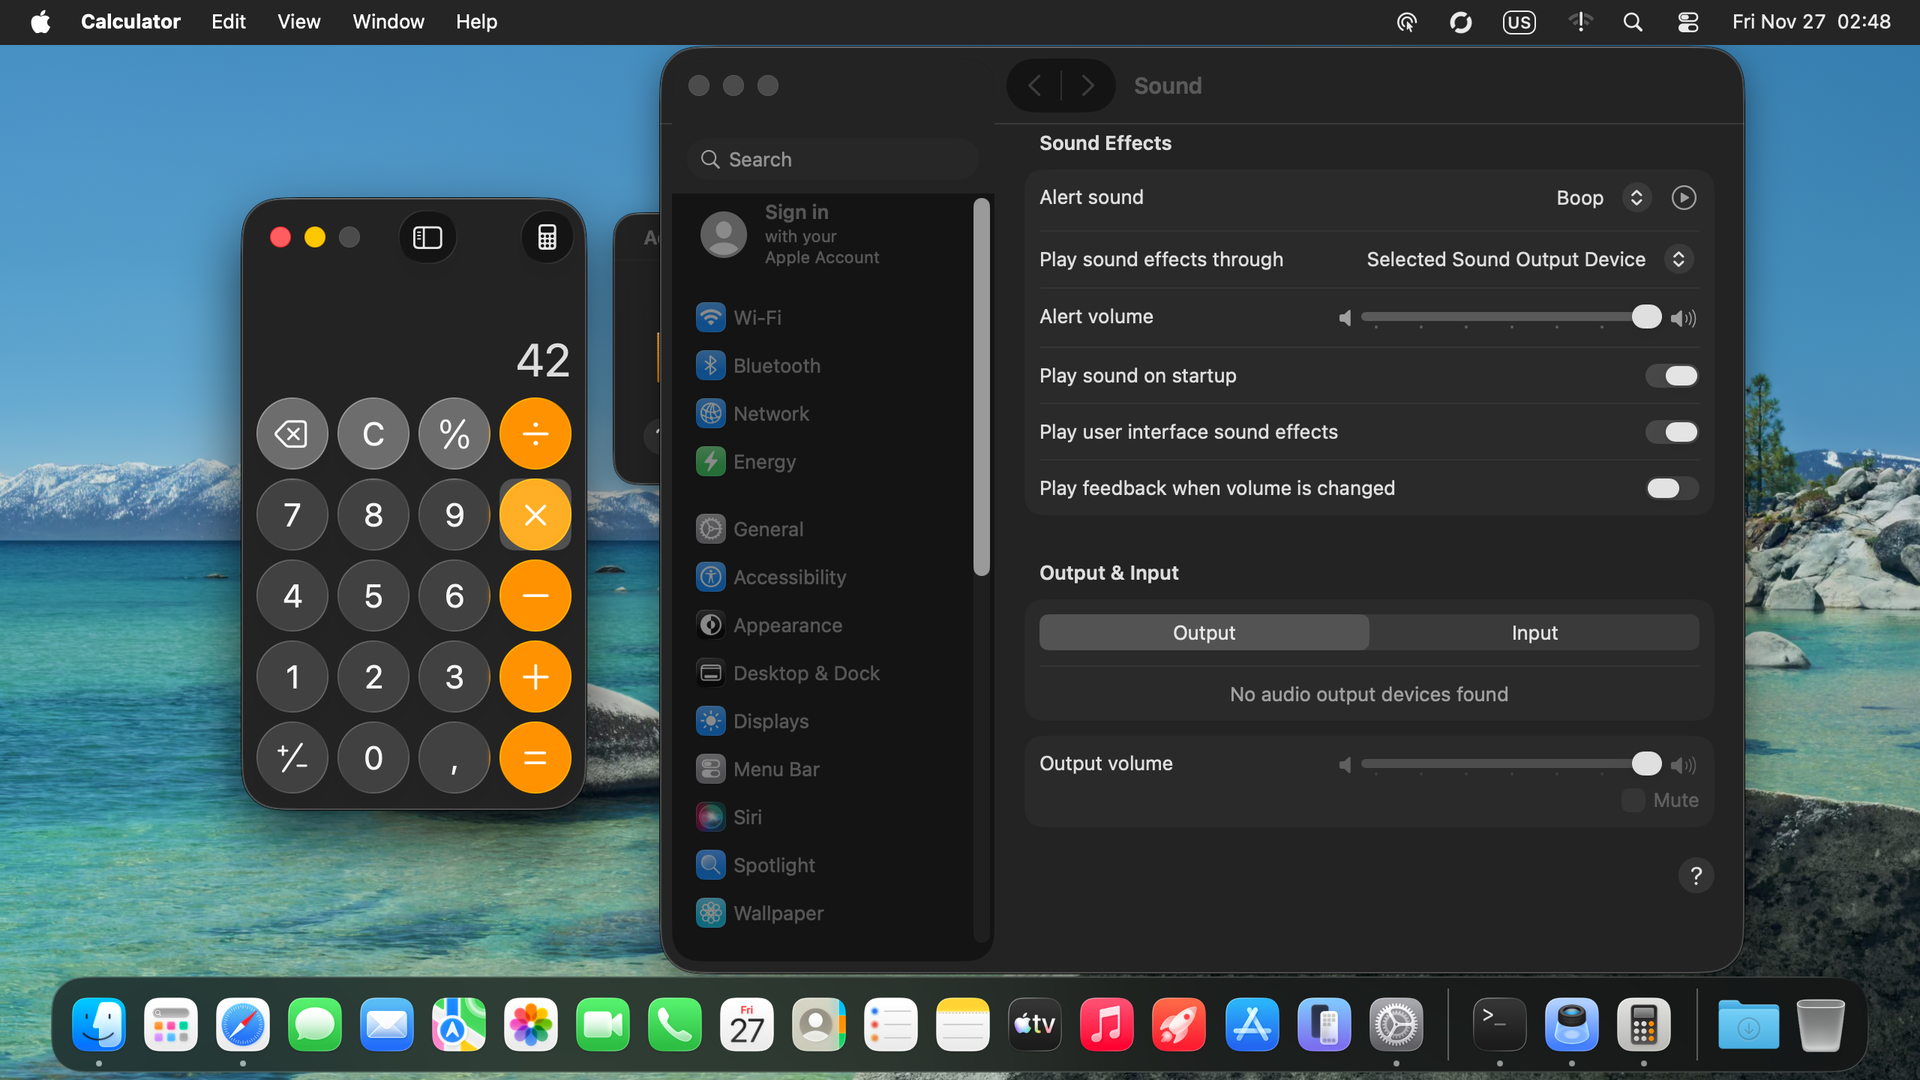
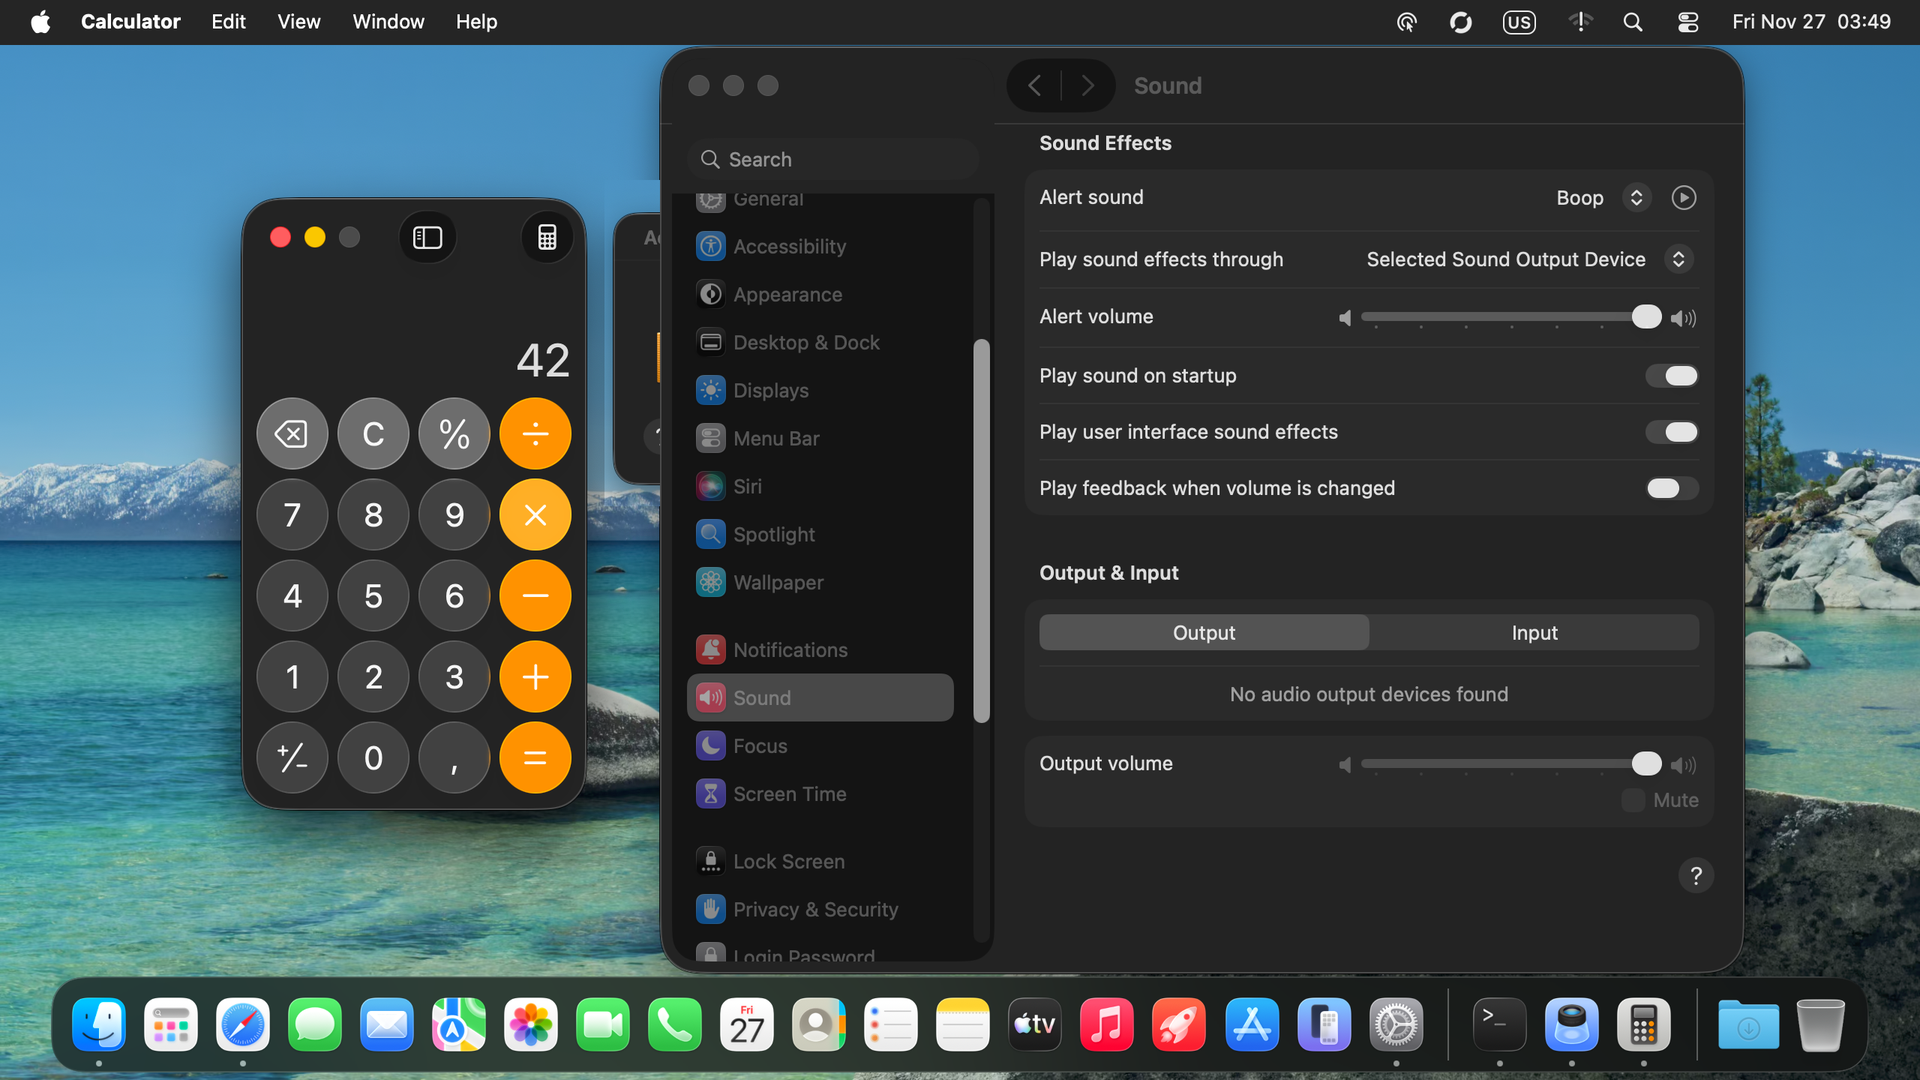
Snap circular Calculator keypad buttons and AXHelpButton to exact circles (v1.1.1) (#2)

Changed region(s): [[0.3125, 0.1833, 0.5312, 0.8861], [0.5, 0.1833, 0.5312, 0.3056], [0.25, 0.4889, 0.3125, 0.5194]]

diff --git a/Sources/ApplePointer/AccessibilityHitTester.swift b/Sources/ApplePointer/AccessibilityHitTester.swift
@@ -20,6 +20,7 @@ final class AccessibilityHitTester: @unchecked Sendable {
     private var configuredManualAXPIDs: Set<pid_t> = []
     private var notificationCenterPIDCache: [pid_t: Bool] = [:]
     private var codexPIDCache: [pid_t: Bool] = [:]
+    private var calculatorPIDCache: [pid_t: Bool] = [:]
     private var windowManagerPIDCache: [pid_t: Bool] = [:]
 
     private let systemWideElement: AXUIElement
@@ -473,6 +474,7 @@ final class AccessibilityHitTester: @unchecked Sendable {
         var pid: pid_t = 0
         var isInsideNotificationCenter = false
         var isInsideCodex = false
+        var isInsideCalculator = false
         var isInsideWindowManager = false
         if AXUIElementGetPid(leaf, &pid) == .success {
             if pid == ownPID {
@@ -485,6 +487,7 @@ final class AccessibilityHitTester: @unchecked Sendable {
             )
             isInsideNotificationCenter = isNotificationCenterProcess(pid)
             isInsideCodex = isCodexProcess(pid)
+            isInsideCalculator = isCalculatorProcess(pid)
             isInsideWindowManager = isWindowManagerProcess(pid)
         }
 
@@ -562,6 +565,7 @@ final class AccessibilityHitTester: @unchecked Sendable {
                     isInsideDesktop: isInsideDesktop,
                     isInsideNotificationCenter: isInsideNotificationCenter,
                     isInsideCodex: isInsideCodex,
+                    isInsideCalculator: isInsideCalculator,
                     allowExplicitPressFallback: false
                 ) {
                     let isLargeCardTarget = target.id.hasPrefix("nc-")
@@ -589,6 +593,7 @@ final class AccessibilityHitTester: @unchecked Sendable {
                     isInsideDesktop: isInsideDesktop,
                     isInsideNotificationCenter: isInsideNotificationCenter,
                     isInsideCodex: isInsideCodex,
+                    isInsideCalculator: isInsideCalculator,
                     allowExplicitPressFallback: true
                 ) {
                     passiveFallbackTarget = fallback
@@ -619,7 +624,8 @@ final class AccessibilityHitTester: @unchecked Sendable {
                 initialInsideToolbar: isInsideToolbar,
                 initialInsideDesktop: isInsideDesktop,
                 isInsideNotificationCenter: isInsideNotificationCenter,
-                isInsideCodex: isInsideCodex
+                isInsideCodex: isInsideCodex,
+                isInsideCalculator: isInsideCalculator
             ) {
                 if let card = fallbackCardTarget {
                     let descArea = descended.rect.width * descended.rect.height
@@ -763,6 +769,25 @@ final class AccessibilityHitTester: @unchecked Sendable {
         return isCodex
     }
 
+    private func isCalculatorProcess(_ pid: pid_t) -> Bool {
+        guard pid > 0 else { return false }
+        lock.lock()
+        if let cached = calculatorPIDCache[pid] {
+            lock.unlock()
+            return cached
+        }
+        lock.unlock()
+        let bid = NSRunningApplication(processIdentifier: pid)?.bundleIdentifier ?? ""
+        let isCalc = bid == "com.apple.calculator"
+        lock.lock()
+        if calculatorPIDCache.count > 64 {
+            calculatorPIDCache.removeAll(keepingCapacity: true)
+        }
+        calculatorPIDCache[pid] = isCalc
+        lock.unlock()
+        return isCalc
+    }
+
     private func isWindowManagerProcess(_ pid: pid_t) -> Bool {
         guard pid > 0 else { return false }
         lock.lock()
@@ -893,7 +918,8 @@ final class AccessibilityHitTester: @unchecked Sendable {
         initialInsideToolbar: Bool,
         initialInsideDesktop: Bool,
         isInsideNotificationCenter: Bool = false,
-        isInsideCodex: Bool = false
+        isInsideCodex: Bool = false,
+        isInsideCalculator: Bool = false
     ) -> HitTarget? {
         let startTime = CACurrentMediaTime()
         let maxChecked = 1200
@@ -980,6 +1006,7 @@ final class AccessibilityHitTester: @unchecked Sendable {
                        isInsideDesktop: nextInDesktop,
                        isInsideNotificationCenter: isInsideNotificationCenter,
                        isInsideCodex: isInsideCodex,
+                       isInsideCalculator: isInsideCalculator,
                        allowExplicitPressFallback: isCandidatePassive
                    ) {
                     // Never let a passive child wrapper inside an AXTextArea/AXTextField overwrite an active .beam target
@@ -1094,6 +1121,7 @@ final class AccessibilityHitTester: @unchecked Sendable {
         isInsideDesktop: Bool = false,
         isInsideNotificationCenter: Bool = false,
         isInsideCodex: Bool = false,
+        isInsideCalculator: Bool = false,
         allowExplicitPressFallback: Bool
     ) -> HitTarget? {
         if let enabled = prefetchedEnabled ?? boolAttribute(elem, kAXEnabledAttribute), !enabled {
@@ -1547,6 +1575,11 @@ final class AccessibilityHitTester: @unchecked Sendable {
             return keywords.contains { label.contains($0) || lowerID.contains($0) }
         }()
 
+        let isCalculatorKeypadButton = isInsideCalculator
+            && role == "AXButton"
+            && minDim >= 24.0 && maxDim <= 140.0
+            && !isInsideToolbar
+
         let domRadius = Self.resolvedDomCornerRadius(for: elem, visualRect: visualRect, parent: directParent)
         let cornerRadius = ElementGeometryResolver.resolveCornerRadius(
             visualRect: visualRect,
@@ -1556,6 +1589,7 @@ final class AccessibilityHitTester: @unchecked Sendable {
             isSidebarRow: isSidebarRowShape,
             isCircularCloseOrDelete: isCircularCloseOrDeleteButton,
             isNotchButton: isNotchButton,
+            isCircularAppControl: isCalculatorKeypadButton,
             domRadius: domRadius
         )
         let baseSlipCap: CGFloat = isSidebarRowShape ? 3.5 : (maxDim > 125.0 ? 5.0 : 8.0)

diff --git a/Tests/ApplePointerCoreTests/ApplePointerCoreTests.swift b/Tests/ApplePointerCoreTests/ApplePointerCoreTests.swift
@@ -931,6 +931,36 @@ struct ApplePointerCoreTests {
         #expect(lightHigh.colorMatrix.m15 < lightDefault.colorMatrix.m15 - 0.05)
     }
 
+    @Test("Circular app buttons (e.g. Calculator 48x48 keypad) and AXHelpButton resolve to exact circle radius")
+    func circularCalculatorAndHelpButtonCornerRadius() {
+        let calcKey = CGRect(x: 200, y: 460, width: 48, height: 48)
+        let calcRadius = ElementGeometryResolver.resolveCornerRadius(
+            visualRect: calcKey,
+            role: "AXButton",
+            subrole: "",
+            isInsideToolbar: false,
+            isSidebarRow: false,
+            isCircularCloseOrDelete: false,
+            isNotchButton: false,
+            isCircularAppControl: true,
+            domRadius: nil
+        )
+        #expect(abs(calcRadius - 24.0) < 1e-6)
+
+        let helpBtn = CGRect(x: 1119, y: 571, width: 24, height: 24)
+        let helpRadius = ElementGeometryResolver.resolveCornerRadius(
+            visualRect: helpBtn,
+            role: "AXButton",
+            subrole: "AXHelpButton",
+            isInsideToolbar: false,
+            isSidebarRow: false,
+            isCircularCloseOrDelete: false,
+            isNotchButton: false,
+            domRadius: nil
+        )
+        #expect(abs(helpRadius - 12.0) < 1e-6)
+    }
+
     @Test("Constrained vertical I-beam tracks X 1:1 while magnetically aligning Y to text line center")
     func constrainedVerticalIBeamLineMagnetism() {
         let engine = PointerEngine(initialPosition: CGPoint(x: 200, y: 106), timestamp: 0.0)

diff --git a/Sources/ApplePointerCore/ElementGeometryResolver.swift b/Sources/ApplePointerCore/ElementGeometryResolver.swift
@@ -109,6 +109,7 @@ public enum ElementGeometryResolver {
         isSidebarRow: Bool,
         isCircularCloseOrDelete: Bool,
         isNotchButton: Bool,
+        isCircularAppControl: Bool = false,
         domRadius: CGFloat?
     ) -> CGFloat {
         let minDim = max(1.0, min(visualRect.width, visualRect.height))
@@ -122,12 +123,14 @@ public enum ElementGeometryResolver {
         // 1. Controls that are genuinely circular or full capsule pills on macOS/iPadOS
         if isNotchButton
             || isCircularCloseOrDelete
+            || isCircularAppControl
             || role == "AXSwitch"
             || role == "AXHandle"
             || role == "AXRulerMarker"
             || subrole == "AXSwitch"
             || subrole == "AXSegment"
             || subrole == "AXCloseButton"
+            || subrole == "AXHelpButton"
             || (role == "AXRadioButton" && subrole != "AXTabButton" && maxDim <= minDim * 1.25) {
             return maxR
         }

diff --git a/README.md b/README.md
@@ -35,7 +35,7 @@ ApplePointer lives quietly in the menu bar (`⌃⌥⌘P` toggles it on or off an
 
 Download the Universal (`arm64` + `x86_64`) DMG or ZIP from [Releases](https://github.com/SergeiNikolenko/ApplePointer/releases/latest) (requires **macOS 14 Sonoma or later**):
 
-1. Open `ApplePointer-1.1.0.dmg` and drag **ApplePointer.app** to `/Applications`.
+1. Open `ApplePointer-1.1.1.dmg` and drag **ApplePointer.app** to `/Applications`.
 2. Because this open-source build is ad-hoc signed rather than Apple notarized, clear the quarantine attribute if macOS blocks the first launch:
 
 ```bash
